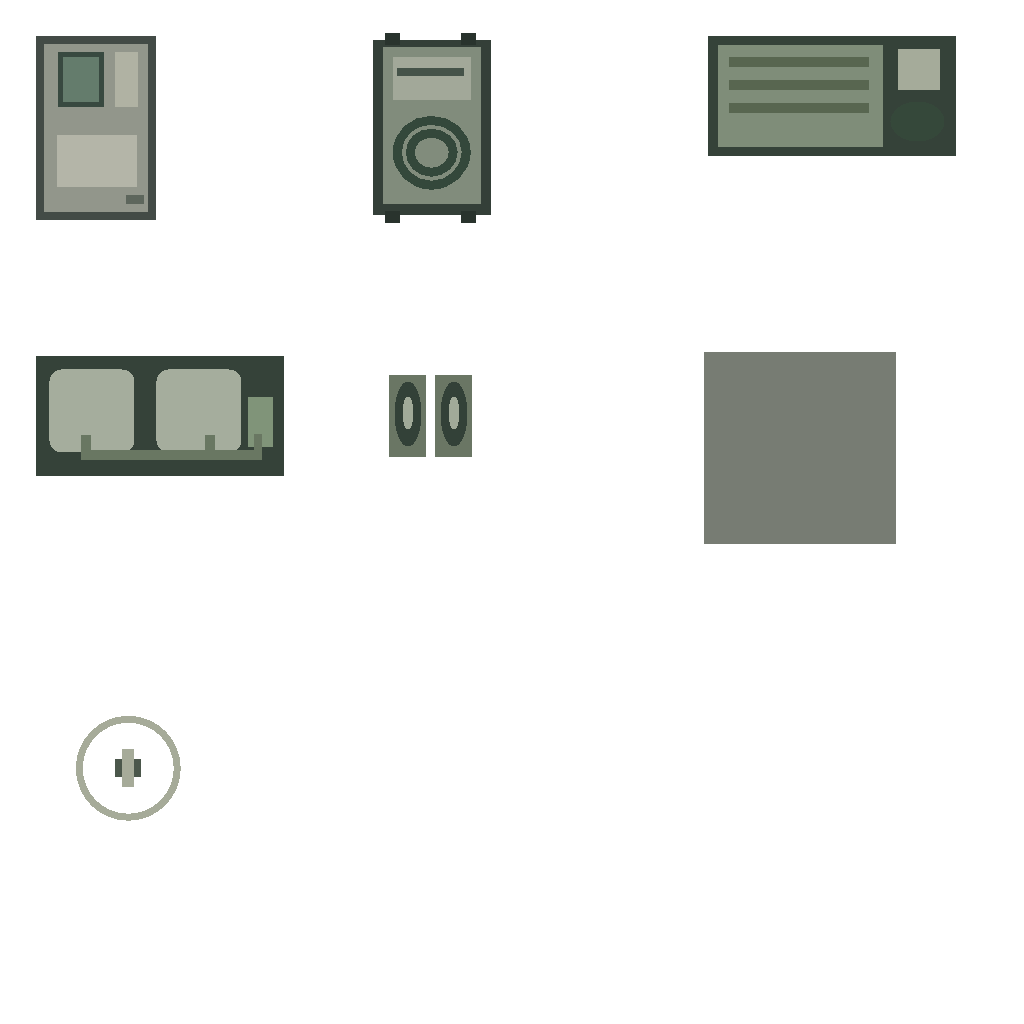
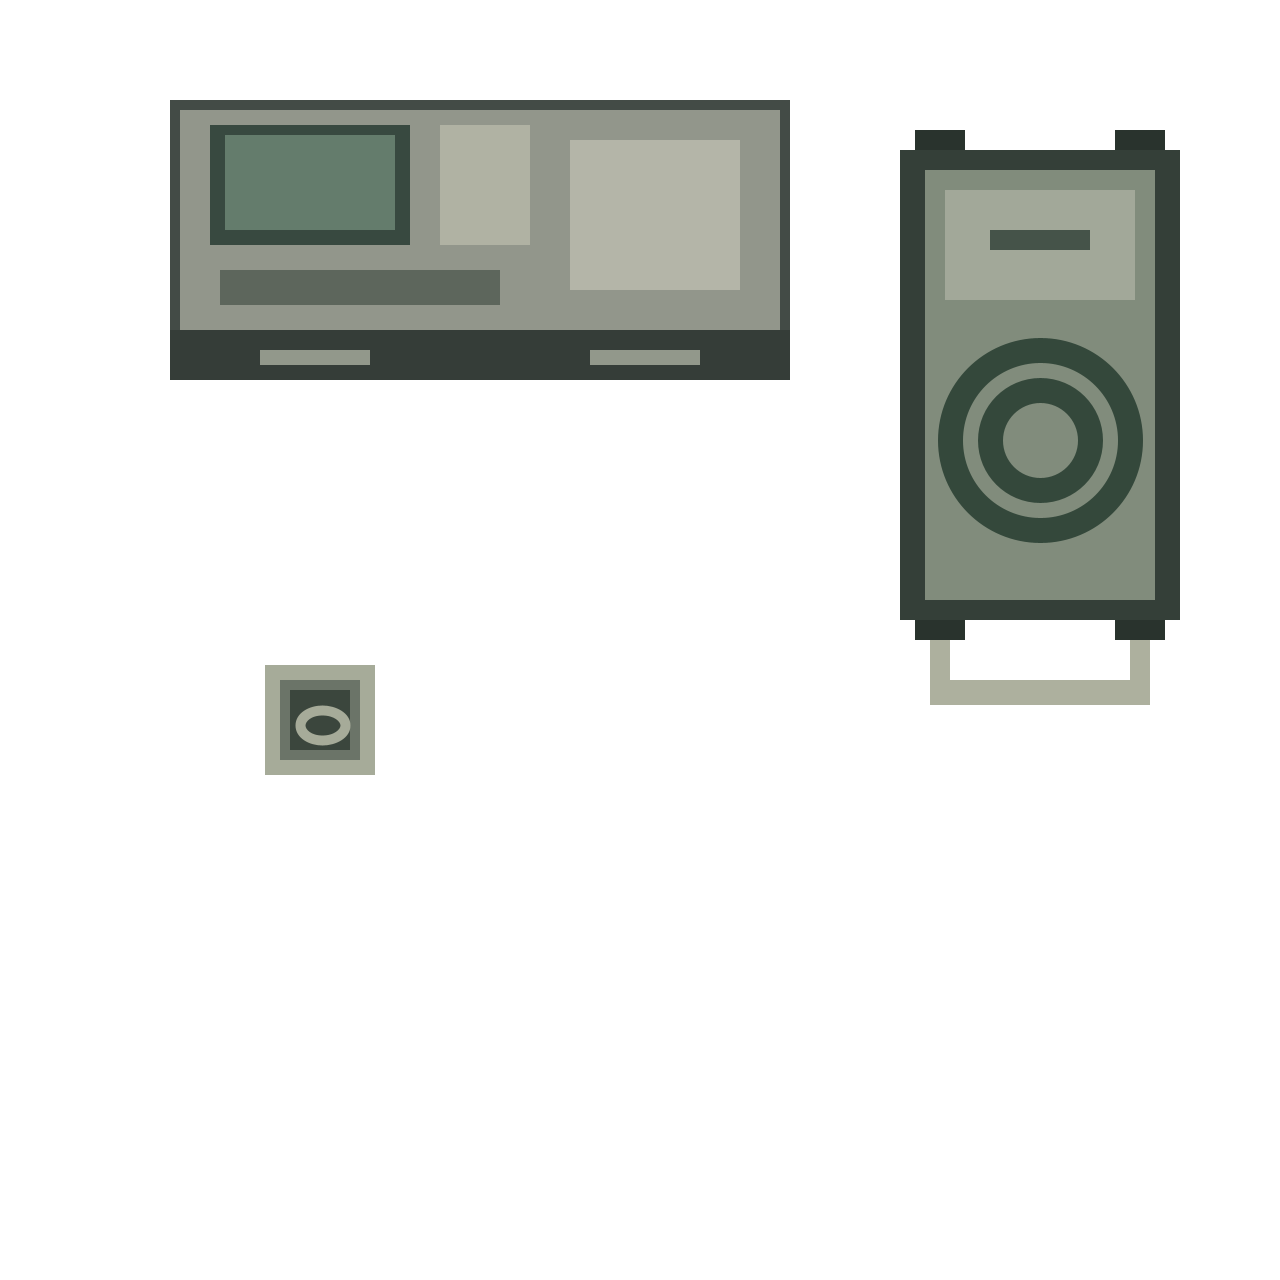
Shuttle-bay flight desk, service cart and tie-down at real size
The flight desk and the servicing cart filled 2x3 frames (1.4 x 2.2 m)
and the tie-down marking was 0.56 m across, against a crewman whose
shoulders are 0.6 cells. The desk is 2x1 now (1.45 x 0.68 m), the cart
1x2 (0.66 x 1.4 m) and the tie-down a 0.28 m flush plate centred in its
cell, drawn at 320 px per cell and joined to the accepted raw with
real-scale-montage.py, so the ground-power unit, fluid skid, wheels and
landing deck keep their pixels. No damage family covers this sheet.

The old ring-and-bar marking reads as a gun sight to ImageGen's filter:
every request carrying it, in the guide or the reference sheet, was
refused as violence, so the plate is square and the loading-bay sheet is
the material reference. The generation came back zoomed by 1.11-1.16x and
each piece is cut from a frame scaled by the same factor.

Both pieces are worked on their bottom edge: the desk stands across the
working band and is worked from the band cell below it, and each cart is
worked from the cell below its push handle, instead of both from the
walking ring at their side.

diff --git a/src/test/java/com/dillon/starsectormarines/tools/tilesetauthoring/ShuttleBayTemplate.java b/src/test/java/com/dillon/starsectormarines/tools/tilesetauthoring/ShuttleBayTemplate.java
@@ -1,74 +1,108 @@
 package com.dillon.starsectormarines.tools.tilesetauthoring;
 
+import java.awt.BasicStroke;
 import java.awt.Color;
 import java.awt.Graphics2D;
-import java.awt.BasicStroke;
+import java.awt.RenderingHints;
+import java.awt.geom.AffineTransform;
+import java.awt.geom.Ellipse2D;
 import java.awt.image.BufferedImage;
 import java.nio.file.Files;
 import java.nio.file.Path;
 import javax.imageio.ImageIO;
 
-/** Geometry contract: 64px/cell, seven isolated slots in a 3x3 sheet. */
+/**
+ * The shuttle-bay pieces re-drawn at real size, where a cell is about 0.75 m (a crewman's shoulders are 0.6 cells):
+ * the flight-operations desk, two cells by one, the servicing cart, one cell by two, and the flush tie-down, a
+ * quarter-metre deck plate with a lashing ring in the middle of its one cell. The rest of the kit (ground-power
+ * unit, fluid skid, wheel cradles, landing deck) was already true and keeps its original generation.
+ *
+ * <p>The old tie-down, a ring with a bar across its centre, read to ImageGen's safety filter as a gun sight: every
+ * request carrying it, or the old sheet as reference, was refused as violence. The plate is square for that reason.
+ *
+ * <p>Drawn large, 320 px per cell: at 128 px per cell ImageGen draws boxy pieces far too deep. The worked face of
+ * every piece is its bottom edge: a sprite's top edge lies at its footprint's highest row, and each piece is worked
+ * from the row below it. The desk's operator side is its near (bottom) fascia; the cart's push handle is at the
+ * bottom.
+ *
+ * <pre>
+ *   slot          frame (x,y,w,h px)    real size
+ *   flight-desk   160, 80,640,320       1.45 x 0.68 m desk, display at the back, operator fascia at the bottom
+ *   service-cart  880, 80,320,640       0.66 x 1.4 m cart, coiled lead on top, push handle at the bottom
+ *   tie-down      160,560,320,320       0.26 m flush deck plate with a lashing ring, centred, transparent around it
+ * </pre>
+ */
 public final class ShuttleBayTemplate {
     private ShuttleBayTemplate() {}
+
+    /** Pixels per cell on the canvas; shapes below are drawn in 64ths of a cell. */
+    static final int C = 320;
+
     public static BufferedImage render() {
-        BufferedImage image = new BufferedImage(1024,1024,BufferedImage.TYPE_INT_ARGB);
-        for (int slot=0;slot<7;slot++) {
-            Graphics2D g=image.createGraphics();
-            g.translate(32+slot%3*336,32+slot/3*320);
-            switch(slot) {
-                case 0 -> { // 2x3 flight operations desk, controls on its right edge.
-                    box(g,4,4,120,184,0x434B46); box(g,12,12,104,168,0x92968B);
-                    box(g,26,20,46,55,0x384940); box(g,31,25,36,45,0x647C6C);
-                    box(g,83,20,23,55,0xB0B2A3); box(g,25,103,80,52,0xB4B5A8);
-                    box(g,94,163,18,9,0x5D665C);
-                }
-                case 1 -> { // 2x3 mobile servicing station, coiled leads entirely on cart.
-                    box(g,5,8,118,175,0x343F38);box(g,15,15,98,157,0x818C7C);
-                    box(g,25,25,78,43,0xA2A899);box(g,29,36,67,8,0x455349);
-                    g.setStroke(new BasicStroke(9));g.setColor(new Color(0x34483B));
-                    g.drawOval(29,88,69,65);g.drawOval(42,101,43,39);
-                    box(g,17,1,15,12,0x29332D);box(g,93,1,15,12,0x29332D);
-                    box(g,17,179,15,12,0x29332D);box(g,93,179,15,12,0x29332D);
-                }
-                case 2 -> { // 4x2 ground-power unit.
-                    box(g,4,4,248,120,0x354239);box(g,14,13,165,102,0x7F8D79);
-                    box(g,25,25,140,10,0x586650);box(g,25,48,140,10,0x586650);
-                    box(g,25,71,140,10,0x586650);box(g,194,17,42,41,0xA5AB9A);
-                    g.setColor(new Color(0x35483A));g.fillOval(186,69,54,40);
-                }
-                case 3 -> { // 4x2 contained fluid servicing skid; short joined manifold.
-                    box(g,4,4,248,120,0x354239);
-                    g.setColor(new Color(0xA5AD9D));g.fillRoundRect(17,17,85,83,24,24);
-                    g.fillRoundRect(124,17,85,83,24,24);
-                    box(g,49,98,134,10,0x697762);box(g,49,83,10,20,0x697762);
-                    box(g,173,83,10,20,0x697762);box(g,216,45,25,50,0x809479);
-                    box(g,183,98,47,10,0x697762);box(g,222,82,8,26,0x697762);
-                }
-                case 4 -> { // 2x2 wheels in cradles, transparent shelf overlay.
-                    for(int x:new int[]{26,72}) {
-                        box(g,x-5,23,37,82,0x6A7664);
-                        g.setColor(new Color(0x334138));g.fillOval(x,29,27,65);
-                        g.setColor(new Color(0xA1AA99));g.fillOval(x+8,44,11,33);
-                    }
-                }
-                case 5 -> { // 1x1 seamless matte landing-deck material, enlarged sample.
-                    box(g,0,0,192,192,0x777C73);
-                }
-                case 6 -> { // 1x1 flush tie-down marking, enlarged sample, transparent.
-                    g.setColor(new Color(0xA6AB99));g.setStroke(new BasicStroke(7));
-                    g.drawOval(47,47,98,98);
-                    box(g,83,87,26,18,0x4B574B);box(g,90,77,12,38,0xA6AB99);
-                }
-            }
-            g.dispose();
-        }
+        BufferedImage image = new BufferedImage(4 * C, 4 * C, BufferedImage.TYPE_INT_ARGB);
+        Graphics2D g = image.createGraphics();
+        g.setRenderingHint(RenderingHints.KEY_ANTIALIASING, RenderingHints.VALUE_ANTIALIAS_ON);
+
+        // Flight-operations desk 2x1: a dim display and a status panel at the back, a log board, a control strip,
+        // and the operator's fascia with two drawer pulls along the near (bottom) edge.
+        at(g, C / 2, C / 4);
+        rect(g, 2, 4, 124, 56, 0x434B46);
+        rect(g, 4, 6, 120, 44, 0x92968B);
+        rect(g, 10, 9, 40, 24, 0x384940);
+        rect(g, 13, 11, 34, 19, 0x647C6C);
+        rect(g, 56, 9, 18, 24, 0xB0B2A3);
+        rect(g, 82, 12, 34, 30, 0xB4B5A8);
+        rect(g, 12, 38, 56, 7, 0x5D665C);
+        rect(g, 2, 50, 124, 10, 0x353D38);
+        rect(g, 20, 54, 22, 3, 0x92988B);
+        rect(g, 86, 54, 22, 3, 0x92988B);
+
+        // Servicing cart 1x2: casters at the corners, a drawer at the far end, a coiled lead on the deck of the
+        // cart, and the push handle across the near (bottom) end.
+        at(g, 11 * C / 4, C / 4);
+        rect(g, 7, 10, 10, 8, 0x29332D);
+        rect(g, 47, 10, 10, 8, 0x29332D);
+        rect(g, 7, 104, 10, 8, 0x29332D);
+        rect(g, 47, 104, 10, 8, 0x29332D);
+        rect(g, 4, 14, 56, 94, 0x343F38);
+        rect(g, 9, 18, 46, 86, 0x818C7C);
+        rect(g, 13, 22, 38, 22, 0xA2A899);
+        rect(g, 22, 30, 20, 4, 0x455349);
+        g.setColor(new Color(0x34483B));
+        g.setStroke(new BasicStroke(5));
+        g.draw(new Ellipse2D.Double(14, 54, 36, 36));
+        g.draw(new Ellipse2D.Double(22, 62, 20, 20));
+        rect(g, 10, 112, 4, 10, 0xADB09E);
+        rect(g, 50, 112, 4, 10, 0xADB09E);
+        rect(g, 10, 120, 44, 5, 0xADB09E);
+
+        // Flush tie-down 1x1: a small square deck plate painted off-white round its edge, recessed in the middle,
+        // with a steel lashing ring lying flat in the recess.
+        at(g, C / 2, 7 * C / 4);
+        rect(g, 21, 21, 22, 22, 0xA6AB99);
+        rect(g, 24, 24, 16, 16, 0x6B7468);
+        rect(g, 26, 26, 12, 12, 0x3B463D);
+        g.setColor(new Color(0xA6AB99));
+        g.setStroke(new BasicStroke(2));
+        g.draw(new Ellipse2D.Double(28, 30, 9, 6));
+
+        g.dispose();
         return image;
     }
-    private static void box(Graphics2D g,int x,int y,int w,int h,int rgb) {
-        g.setColor(new Color(rgb));g.fillRect(x,y,w,h);
+
+    /** Places a frame's top-left corner at canvas pixel ({@code x}, {@code y}), scaled to 64ths of a cell. */
+    private static void at(Graphics2D g, int x, int y) {
+        g.setTransform(new AffineTransform());
+        g.translate(x, y);
+        g.scale(C / 64.0, C / 64.0);
     }
+
+    private static void rect(Graphics2D g, int x, int y, int w, int h, int rgb) {
+        g.setColor(new Color(rgb)); g.fillRect(x, y, w, h);
+    }
+
     public static void main(String[] args) throws Exception {
-        Path path=Path.of(args[0]);Files.createDirectories(path.getParent());ImageIO.write(render(),"png",path.toFile());
+        Path path = Path.of(args[0]); Files.createDirectories(path.getParent());
+        ImageIO.write(render(), "png", path.toFile());
     }
 }

diff --git a/src/main/java/com/dillon/starsectormarines/battle/world/gen/fit/ShuttleBayEquipment.java b/src/main/java/com/dillon/starsectormarines/battle/world/gen/fit/ShuttleBayEquipment.java
@@ -20,10 +20,11 @@ final class ShuttleBayEquipment {
 
     void fit(RoomFloor floor) {
         int w = floor.canonicalWidth(), h = floor.canonicalHeight();
-        // Office and mobile gear face the walking ring, storage faces it from the opposite side.
-        station(floor, "flight-desk", 0, 3, 2, 4, 1, 4, Affordance.READOUT);
+        // The desk and the carts are worked on their bottom edge (a sprite's top edge lies at its footprint's
+        // highest row), so each is worked from the band cell below it; storage faces the walking ring opposite.
+        station(floor, "flight-desk", 0, 4, 1, 3, 1, 4, Affordance.READOUT);
         for (int y=11; y+3<=h-2; y+=8)
-            station(floor, "service-cart", 0, y, 2, y+1, 1, y+1, Affordance.REPAIR);
+            station(floor, "service-cart", 0, y+1, 0, y, 0, y+1, Affordance.REPAIR);
         for (int y=3; y+6<=h-2; y+=8) {
             if (floor.placeAssembly(w-2, y, "main-stores.rack", List.of(
                     new LayoutOp.Layer(0,0,KIT+"wheels"),

diff --git a/art-source/tilesets/shuttle-bay.README.md b/art-source/tilesets/shuttle-bay.README.md
@@ -1,25 +1,33 @@
 # Ship shuttle bay
 
-Built-in ImageGen reskin of `ShuttleBayTemplate`; the accepted armory sheet was
-used only as the material reference. No API/CLI image generation was used.
+The raw is two generations side by side (2508x1254). The left half is the
+original built-in ImageGen reskin of the first guide (1024 square, 64px per
+cell), with the accepted armory sheet as material reference and the request in
+`shuttle-bay.prompt.txt`: the ground-power unit and fluid skid (4x2), the wheel
+cradle overlay (2x2, clear square canvas) and the landing-deck material (an
+opaque interior crop, excluding the generated ragged rim). Those cuts were
+measured from returned alpha.
 
-- Geometry: `art-source/templates/shuttle-bay.png`, 1024 square, 64px/cell.
-- Raw: `shuttle-bay.raw.png`, accepted 1254x1254 RGBA output.
-- Exact prompt: `shuttle-bay.prompt.txt`.
-- Cuts, physical footprints and export: `shuttle-bay.tileset-authoring.json`.
-- Runtime: `mod/graphics/tilesets/shuttle-bay.png` and the matching tileset JSON.
+The right half, from x=1254, is the real-size refit. A cell is about 0.75 m (a
+crewman's shoulders are 0.6 cells); the original flight desk and service cart
+filled 2x3 frames (1.4 x 2.2 m) and the tie-down marking was 0.56 m across.
+`ShuttleBayTemplate` draws the desk (1.45 x 0.68 m, 2x1), the cart (0.66 x 1.4
+m, 1x2) and a 0.26 m flush tie-down plate centred in its cell, at 320 px per
+cell, and Codex `image_gen` reskinned it (`shuttle-bay-refit.prompt.txt`,
+provenance in `shuttle-bay.raw.png.provenance.json`). The material reference
+is the loading-bay sheet, not this one: with the old ring-and-bar marking in
+either the guide or the reference, every request was refused as violence (it
+reads as a gun sight), so the new plate is square. The generation came back
+uniformly zoomed by 1.11-1.16x, so each piece is cut from a frame scaled by
+the same factor about it; that keeps the guide's real sizes. Each piece's
+worked face is its bottom edge: the desk's operator fascia and the cart's push
+handle.
 
-The 3x3 guide holds seven assets: flight desk (2x3), service cart (2x3),
-ground-power unit (4x2), fluid skid (4x2), wheel cradle overlay (2x2),
-landing-deck material (1x1), and symmetric flush tie-down overlay (1x1).
-Source coordinates were measured from returned alpha, not assumed from guide
-resolution. Four equipment cuts include four pixels of padding. Wheel and
-marking cuts retain square canvases and clear margins; the floor sample uses
-an opaque interior crop, excluding the generated ragged rim.
-
-Export using the checked-in wrapper:
+Regenerate the guide, join the raw and export with the checked-in wrapper:
 
 ```powershell
+& "$env:JAVA_HOME/bin/java.exe" src/test/java/com/dillon/starsectormarines/tools/tilesetauthoring/ShuttleBayTemplate.java art-source/templates/shuttle-bay.png
+python art-source/templates/real-scale-montage.py <original-raw.png> <refit.png> art-source/tilesets/shuttle-bay.raw.png
 '{"name":"shuttle-bay"}' | .\tools\authoring.cmd tileset_export -
 ```
 
@@ -28,7 +36,9 @@ loads from machine-shop, and cartons from main-stores. The ship-only variant
 of BoatBayFitting shares all berth arithmetic with the existing arrangement.
 It retains six boats in 24x30 and one gig in 16x10. Equipment stays within the
 existing two-cell working bands, with complete groups omitted at hatches.
-Landing surfaces and tie-downs claim no collision; equipment does.
+Landing surfaces and tie-downs claim no collision; equipment does. The flight
+desk stands across the band and is worked from the band cell below it; each
+cart is parked against the bulkhead and worked from the cell below its handle.
 
 `createSnapshots -Psnapshot=ship-materials` produces generated Valkyrie bay
 views at 24/64px per cell, occupied views at 24/48px, and four posed fitting

diff --git a/art-source/geometry-first-imagegen.md b/art-source/geometry-first-imagegen.md
@@ -97,7 +97,7 @@ Keep source inputs out of `mod/`; only exported art and its runtime catalog ship
 | Ship firing range | `FiringRangeTemplate`; heavy bullet traps, ballistic dividers, preparation and control benches, quiet lane materials | `templates/firing-range.png`, `tilesets/firing-range.*` | `ship-materials` |
 | Ship washrooms | `ShipWashroomTemplate`; basin counters, toilet and shower cubicles, quiet non-slip deck | `templates/ship-washrooms.png`, `tilesets/ship-washrooms.*` | `ship-materials` |
 | Ship provisions bay | Continuous roller conveyor, separate cargo layers and staging deck from the original guide; `LoadingBayTemplate` re-draws the manifest desk (2x1) and the open-fork pallet tug (1x3) at real size (320 px per cell), joined to the original raw by `real-scale-montage.py` | `templates/loading-bay.png`, `tilesets/loading-bay.*` | `ship-materials` |
-| Ship shuttle bay | `ShuttleBayTemplate`; contained service equipment, shelf loads, landing material and flush tie-downs | `templates/shuttle-bay.png`, `tilesets/shuttle-bay.*` | `ship-materials` |
+| Ship shuttle bay | Ground-power unit, fluid skid, shelf loads and landing material from the original guide; `ShuttleBayTemplate` re-draws the flight desk (2x1), service cart (1x2) and a small flush tie-down plate at real size (320 px per cell), joined to the original raw by `real-scale-montage.py` | `templates/shuttle-bay.png`, `tilesets/shuttle-bay.*` | `ship-materials` |
 | Ship crew lounge | `CrewLoungeTemplate`; opposing sofas, layered tables and distinct recreation groups | `templates/crew-lounge.png`, `tilesets/crew-lounge.*` | `ship-materials` |
 | Ship main stores | `MainStoresTemplate`; shelf beds, independent cargo, transparent retaining frames and pallet staging | `templates/main-stores.png`, `tilesets/main-stores.*` | `ship-materials` |
 | Ship armory | Issue counter, layered weapons racks and separate cabinets from the original guide; `ArmoryWorkshopTemplate` re-draws the repair bench, its tools and the ready-locker bank at real size (3x1, 320 px per cell), joined to the original raw by `real-scale-montage.py` | `templates/armory-workshop.png`, `tilesets/armory-workshop.*` | `ship-materials` |

diff --git a/mod/data/tilesets/shuttle-bay.tileset.md b/mod/data/tilesets/shuttle-bay.tileset.md
@@ -4,7 +4,7 @@ Generated by the Tilesets page of `gradlew.bat layerAuthoring`. Do not edit by h
 
 - atlas: `graphics/tilesets/shuttle-bay.png`
 - cell size: 64 px
-- extent: 16x3 cells
+- extent: 15x2 cells
 
 ## Blocks
 
@@ -20,8 +20,8 @@ variant pool has no geometry and is picked by hashing the cell.
 
 | id | cells | cover | half height | wall side | note | tags |
 |---|---|---|---|---|---|---|
-| `shuttle-bay.flight-desk` | 2x3 | med | 0.6 | — | — | — |
-| `shuttle-bay.service-cart` | 2x3 | med | 0.6 | — | — | — |
+| `shuttle-bay.flight-desk` | 2x1 | med | 0.6 | — | — | — |
+| `shuttle-bay.service-cart` | 1x2 | med | 0.6 | — | — | — |
 | `shuttle-bay.ground-power` | 4x2 | med | 0.6 | — | — | — |
 | `shuttle-bay.fluid-skid` | 4x2 | med | 0.6 | — | — | — |
 | `shuttle-bay.wheels` | 2x2 | none | 0.0 | — | — | — |
